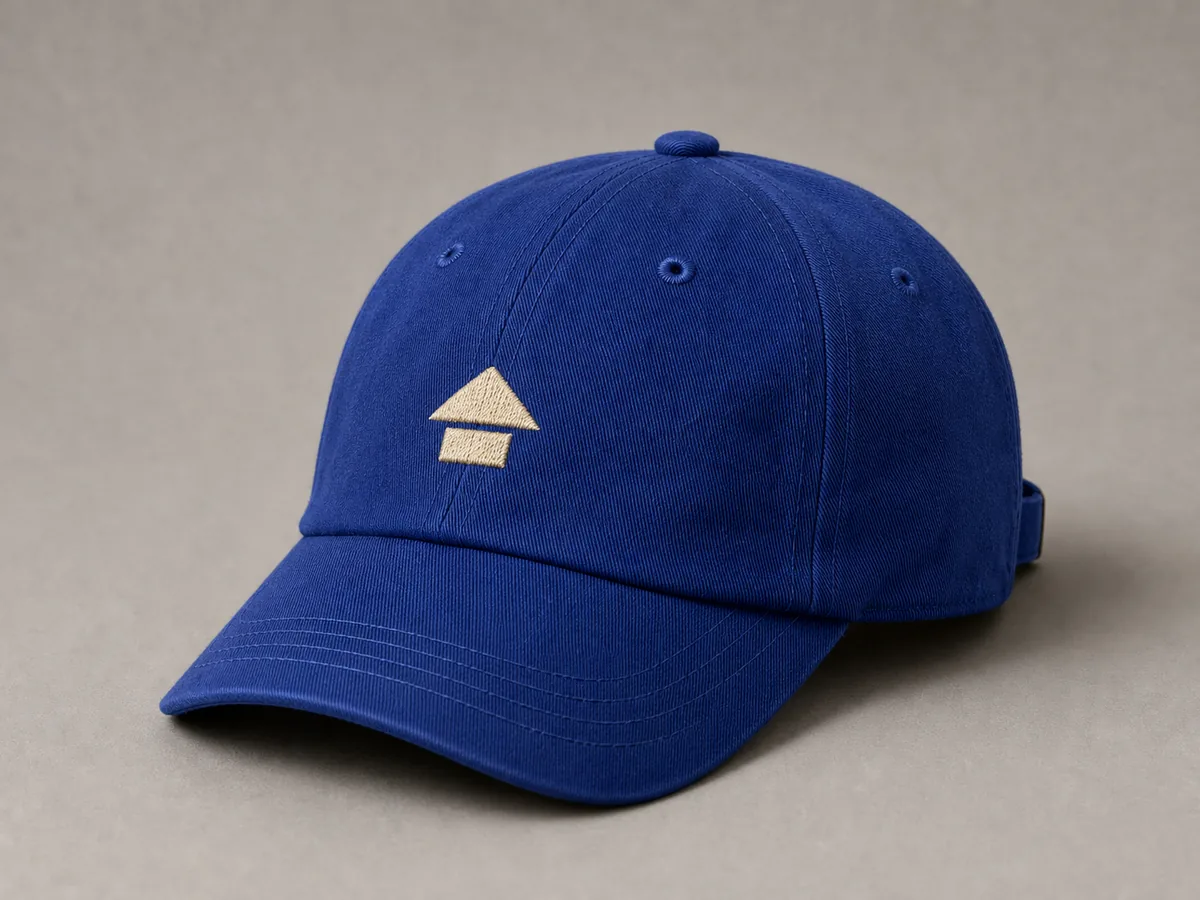
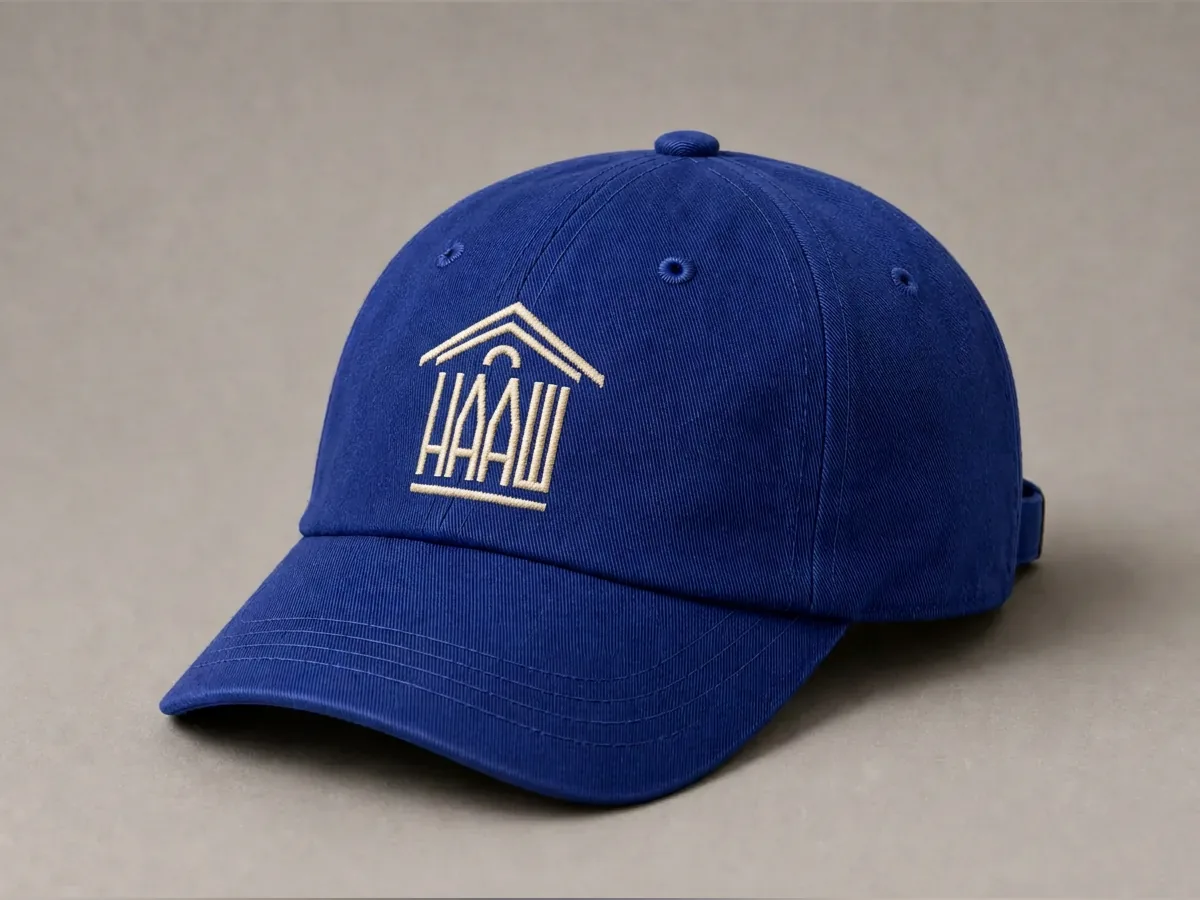
v0.89.6 — настоящий знак НААШ на школьных вещах
Канон знака вырезан из листа замков в docs/naash (цветной и одноцветный, с альфой) и подан генератору вторым изображением: значок, кепка и худи пересняты с крышей, оконцем, четырьмя буквами и линейкой вместо треугольника над прямоугольником. Векторный SchoolMark перерисован по измеренному канону. Шарф оставлен без знака: по описанию он несёт цвета знака, а не знак.

diff --git a/src/ui/MascotLook.tsx b/src/ui/MascotLook.tsx
@@ -27,11 +27,25 @@ const SIGN_GREEN = '#2E8B45';
 const SIGN_BLUE = '#0F4CA0';
 
 /**
- * Знак школы в упрощении для мелких вещей: крыша, четыре стебля букв НААШ и
- * полка под ними. Буквы здесь не буквы, а вертикали: на кепке шириной 15 px
- * надпись «НААШ» превращается в грязь, а силуэт знака узнаётся сразу.
- * `colored` — знак в цветах школы (для кремовой эмали), иначе одним цветом.
+ * Знак школы — по канону, а не «по мотивам».
+ *
+ * Канон лежит в репозитории: `docs/merch/img/mark-lockups.webp` (чистый знак),
+ * оттуда же `docs/naash/mark-color.png` и `mark-mono.png`. Прочитать его можно
+ * так: крыша двойным скатом с оконцем-полукругом, четыре буквы НААШ (обе «А» —
+ * домики), под ними линейка. Раньше здесь стояло «упрощение до крыши, стеблей
+ * и полки» — на карточке 96 px это читалось, но переставало быть знаком школы
+ * (0.89.6: пользователь справедливо сказал «это не лого, а нечто похожее»).
+ *
+ * Геометрия снята с канона в единицах, где высота букв = 100:
+ *   ширина знака 194.2, высота 193.3, обводка букв 5.4, крыши 7,
+ *   буква 28.5 шириной с шагом 34.9, перекладина на 76 от верха,
+ *   линейка — на 16.1 ниже строки.
+ *
+ * `colored` — знак в цветах школы (кремовая эмаль значка, печать по светлому),
+ * иначе всё одним цветом: вышивка и печать по синему — кремовым.
  */
+const MARK_W = 194.2;
+
 function SchoolMark({
   cx,
   top,
@@ -45,22 +59,26 @@ function SchoolMark({
   ink: string;
   colored?: boolean;
 }) {
-  const k = w / 16;
-  const stems = colored ? [SIGN_RED, SIGN_AMBER, SIGN_GREEN, SIGN_BLUE] : [ink, ink, ink, ink];
+  const k = w / MARK_W;
+  const base = colored ? SIGN_BLUE : ink;
   return (
-    <g transform={`translate(${cx - w / 2} ${top}) scale(${k.toFixed(4)})`}>
-      <path
-        d="M-0.8 3.4 L8 -0.7 L16.8 3.4"
-        fill="none"
-        stroke={ink}
-        strokeWidth="1.5"
-        strokeLinecap="round"
-        strokeLinejoin="round"
-      />
-      {stems.map((color, i) => (
-        <rect key={i} x={1.1 + i * 2.95} y="4.4" width="1.5" height="3.8" rx="0.3" fill={color} />
-      ))}
-      <rect x="0.4" y="8.7" width="15.2" height="1.25" rx="0.3" fill={ink} />
+    <g transform={`translate(${(cx - w / 2).toFixed(3)} ${top}) scale(${k.toFixed(5)})`}>
+      <g fill="none" strokeLinecap="round" strokeLinejoin="miter">
+        {/* крыша: внешний и внутренний скаты и оконце */}
+        <path d="M-30.2 -12.4 L66.9 -74.5 L164 -12.4" stroke={base} strokeWidth="7" />
+        <path d="M-9.4 -12.4 L66.9 -61.2 L143.2 -12.4" stroke={base} strokeWidth="7" />
+        <path d="M52 -14 A14.95 14.95 0 0 1 81.9 -14" stroke={base} strokeWidth="5.7" />
+        {/* Н */}
+        <path d="M2.7 0 V100 M25.8 0 V100 M2.7 76 H25.8" stroke={colored ? SIGN_RED : ink} strokeWidth="5.4" />
+        {/* А — домик */}
+        <path d="M35.1 100 L49.35 0 L63.6 100 M35.1 76 H63.6" stroke={colored ? SIGN_AMBER : ink} strokeWidth="5.4" />
+        {/* А — второй домик */}
+        <path d="M70.8 100 L85.05 0 L99.3 100 M70.8 76 H99.3" stroke={colored ? SIGN_GREEN : ink} strokeWidth="5.4" />
+        {/* Ш */}
+        <path d="M108.1 0 V100 M119.65 0 V100 M131.2 0 V100 M108.1 97.3 H131.2" stroke={colored ? SIGN_BLUE : ink} strokeWidth="5.4" />
+        {/* линейка под буквами */}
+        <path d="M0 116.1 H133.9" stroke={base} strokeWidth="5.4" />
+      </g>
     </g>
   );
 }
@@ -141,7 +159,7 @@ export function MascotAccessory({ id, colors }: { id: string; colors?: [string, 
           <path d="M19 26 A31 31 0 0 1 81 26 Q50 8 19 26 Z" fill={dome} />
           <path d="M17 25 Q50 32.5 83 25 L83 29.5 Q50 37 17 29.5 Z" fill={band} />
           <circle cx="50" cy="10.6" r="2.4" fill={band} />
-          <SchoolMark cx={50} top={12} w={15} ink={ink} />
+          <SchoolMark cx={50} top={12} w={14} ink={ink} />
         </g>
       );
     }

diff --git a/scripts/make-naash-mark.py b/scripts/make-naash-mark.py
@@ -1,0 +1,70 @@
+#!/usr/bin/env python3
+"""Знак НААШ: вырезаем канон из листа замков в PNG с прозрачным фоном.
+
+Почему так, а не «нарисовать заново»: знак уже перерисован вектором по
+присланному логотипу и лежит листом в `docs/merch/img/mark-lockups.webp`.
+Любая ручная перерисовка — это снова «похоже, но не то» (так и вышло в 0.89.4
+с фотографиями: на кепке, худи и значке стоял треугольник вместо крыши
+с оконцем, четырёх букв и линейки).
+
+Скрипт берёт чистый цветной знак с листа замков, делает альфу по фону и
+сохраняет две версии:
+
+  • `docs/naash/mark-color.png` — красная Н, янтарная А, зелёная А, синяя Ш,
+    синяя крыша с оконцем и линейка: для эмали и печати по светлому;
+  • `docs/naash/mark-mono.png` — тот же контур одним кремовым цветом
+    #F4EFE4: вышивка, печать по синему, тиснение (правило naash-shop.md:
+    «знак всегда кремовый на синем»).
+
+Запуск: python3 scripts/make-naash-mark.py
+"""
+from PIL import Image
+
+SRC = 'docs/merch/img/mark-lockups.webp'
+# Чистый знак в правой верхней части листа (буквы 1152…1351, крыша 1107…1396).
+BOX = (1098, 172, 1405, 476)
+CREAM = '#F4EFE4'
+BG = (0xEF, 0xE9, 0xDD)     # кремовая бумага листа
+TOL = 18                    # насколько пиксель может отличаться от бумаги
+UPSCALE = 2                 # 307 px → 614 px: запас для съёмки и печати
+
+
+def alpha_from_bg(im, bg=BG, tol=TOL):
+    """Альфа по расстоянию до цвета бумаги: знак сплошной, полутонов нет."""
+    px = im.load()
+    w, h = im.size
+    out = Image.new('RGBA', (w, h))
+    op = out.load()
+    for y in range(h):
+        for x in range(w):
+            r, g, b = px[x, y][:3]
+            d = max(abs(r - bg[0]), abs(g - bg[1]), abs(b - bg[2]))
+            a = 0 if d <= tol else min(255, round((d - tol) * 255 / 60))
+            op[x, y] = (r, g, b, a)
+    return out
+
+
+def trim(im, pad=6):
+    """Обрезаем по знаку и оставляем прозрачный запас: иначе острие крыши
+    липнет к краю кадра и при сборке снимком режется."""
+    box = im.getbbox()
+    x0, y0, x1, y1 = box
+    out = Image.new('RGBA', (x1 - x0 + pad * 2, y1 - y0 + pad * 2), (0, 0, 0, 0))
+    out.paste(im.crop(box), (pad, pad))
+    return out
+
+
+def main():
+    sheet = Image.open(SRC).convert('RGB').crop(BOX)
+    color = trim(alpha_from_bg(sheet))
+    mono = Image.new('RGBA', color.size, (0, 0, 0, 0))
+    mono.paste(CREAM, (0, 0, *color.size), color.split()[3])
+    for name, im in (('mark-color', color), ('mark-mono', mono)):
+        big = im.resize((im.width * UPSCALE, im.height * UPSCALE), Image.LANCZOS)
+        path = f'docs/naash/{name}.png'
+        big.save(path)
+        print(f'✓ {path} {big.width}×{big.height}')
+
+
+if __name__ == '__main__':
+    main()

diff --git a/docs/RELEASE-0.89.6.md b/docs/RELEASE-0.89.6.md
@@ -1,0 +1,55 @@
+# 0.89.6 — настоящий знак НААШ на школьных вещах
+
+## Зачем
+
+На снимках школьных вещей стоял не знак школы, а «нечто условно похожее»:
+треугольник над прямоугольником. Генератор сочинял его по описанию, потому что
+канона ему не давали. Пользователь сказал прямо — на школьных вещах логотип
+должен быть максимально точным.
+
+## Что сделано
+
+- **Канон знака теперь лежит в репозитории.** `scripts/make-naash-mark.py`
+  вырезает знак с листа замков `docs/merch/img/mark-lockups.webp` (там он
+  перерисован вектором по присланному логотипу) и сохраняет две версии
+  с прозрачным фоном:
+  - `docs/naash/mark-color.png` — красная Н, янтарная А, зелёная А, синяя Ш,
+    синяя крыша с оконцем и линейка: для эмали и печати по светлому;
+  - `docs/naash/mark-mono.png` — тот же контур одним кремовым #F4EFE4:
+    вышивка и печать по синему (правило «знак всегда кремовый на синем»).
+- **Три школьных снимка пересняты с каноном** (канон подан генератору вторым
+  изображением, остальное в кадре не менялось):
+  - `school-pin` — на кремовой эмали теперь знак целиком: крыша с оконцем,
+    красная Н, янтарная А, зелёная А, синяя Ш и синяя линейка; стенки знака
+    читаются как золотистый металл между эмалями;
+  - `school-cap` — кремовая вышивка по канону на передней панели: крыша
+    с оконцем, четыре буквы, линейка; стежки идут по изгибу панели;
+  - `school-hoodie` — кремовая вышивка на груди, тот же контур, те же
+    пропорции.
+- **Знак в приложении перерисован по канону** (`SchoolMark` в
+  `src/ui/MascotLook.tsx`): крыша двойным скатом с оконцем, Н, две «А»-домика,
+  Ш и линейка. Раньше там стояло «упрощение до крыши и стеблей», которое на
+  15–17 px читалось, но переставало быть знаком школы. Геометрия снята с
+  канона в единицах, где высота букв = 100: ширина 194.2, высота 193.3,
+  обводка букв 5.4, крыши 7, буква 28.5 с шагом 34.9, перекладина на 76 от
+  верха, линейка на 16.1 ниже строки. Правило «без букв и цифр» осталось для
+  набора иконок, но не для фирменного знака.
+- **Шарф оставлен без знака — осознанно.** По описанию вещи он несёт *цвета*
+  знака (полоса-триколор с бахромой), а не сам знак. На вязаном полотне
+  генератор кладёт знак перекошенным (две попытки — брак), а вклеенный поверх
+  выглядел бы подделкой. Канонный мерч-шарф с маленьким знаком — другой товар
+  (`public/naash/scarf-stripes.webp`).
+
+## Как проверено
+
+- Каждый переснятый кадр смотрел на увеличении 2–3×: крыша с оконцем, четыре
+  буквы и линейка читаются, знак не перекошен, пропорции совпадают с каноном.
+  Брак в партии: 2 кадра шарфа (перекошенный знак) — в дело не пошли.
+- `npm run test:galleries` — 13/13, `npm run test:smoke` — зелёный целиком.
+- `npm run typecheck`, `npm run build`, `npm run release:check`.
+
+## Дальше
+
+Знак на снимках теперь канонический — правило записано в
+`docs/proposals/photo-series-plan.md`, чтобы следующая партия не сочиняла его
+заново. По плану остаются вторые ракурсы для 24 товаров с одиночным кадром.

diff --git a/docs/proposals/photo-series-plan.md b/docs/proposals/photo-series-plan.md
@@ -1,6 +1,6 @@
 # Фотосерии галерей: маршрут на 38 нарядов и 24 товара
 
-Состояние на 31.10.2026, ветка `arena/5381728f-slovo2`, версия 0.89.5.
+Состояние на 31.10.2026, ветка `arena/5381728f-slovo2`, версия 0.89.6.
 Генератор изображений работает: **38 из 38 пар нарядов готовы — серия нарядов закрыта** — `crown`,
 `glasses-heart`, `choker`, `cap`, `bow`, `scarf`, `glasses`, `medal`, `grad`,
 `clips-stars`, `wreath`, `hat-ribbon`, `glasses-round`, `beads`, `bag`,
@@ -206,6 +206,27 @@
 2. Проверить на телефоне, что пара читается как одна съёмка: фон, резкость,
    ракурс, масштаб.
 3. Подключать серию целиком, чтобы фото не соседствовали с векторным артом.
+
+## Знак школы на снимках (0.89.6)
+
+Первая партия школьных фото (0.89.4) нарисовала на значке, кепке и худи
+**не тот знак**: треугольник над прямоугольником вместо крыши с оконцем,
+четырёх букв НААШ и линейки. Пользователь: «это фактически не лого школы, а
+нечто условно похожее». Причина — генератору не давали канон, и он сочинял
+знак по описанию.
+
+Правило теперь: **съёмка вещи со знаком идёт только с каноном**. Вторым
+изображением генератору отдают `docs/naash/mark-mono.png` (вышивка и печать по
+синему) или `docs/naash/mark-color.png` (эмаль), и в задании перечислено, из
+чего знак состоит. Кадр принимается, только если на увеличении читаются крыша
+с оконцем, четыре буквы и линейка; перекошенный или «сплющенный» знак — брак.
+
+Где знака нет и почему:
+
+- **шарф** — по описанию вещи он несёт **цвета** знака (полоса-триколор с
+  бахромой), а не сам знак; на вязаном полотне генератор кладёт знак криво,
+  а вклеенный поверх выглядел бы подделкой. Канонный мерч-шарф с маленьким
+  знаком — другой товар (см. `public/naash/scarf-stripes.webp`).
 
 ## Смена цвета и снимки (решение 0.89.5)
 

diff --git a/docs/proposals/naash-shop.md b/docs/proposals/naash-shop.md
@@ -104,9 +104,25 @@
 это не «ещё одна вещь», а символ школы.
 
 **Рисуем кодом** (`src/ui/MascotLook.tsx`, сетка 100×120): ноль веса, офлайн,
-перекраска без картинок. Знак на аксессуарах — **упрощённый до крыши и окон,
-без букв**: правило набора иконок (`src/ui/Icon.tsx`) прямо запрещает буквы и
-цифры внутри значка, а на кепке шириной 60 px буквы НААШ превращаются в грязь.
+перекраска без картинок. Знак на аксессуарах — **по канону, с буквами**
+(0.89.6): крыша двойным скатом с оконцем, четыре буквы НААШ (обе «А» —
+домики) и линейка под ними. Раньше здесь стояло «упрощение до крыши и окон,
+без букв» — на 15–17 px это читалось, но переставало быть знаком школы;
+пользователь сказал прямо: «это не лого, а нечто условно похожее». Правило
+«без букв и цифр» остаётся для набора иконок (`src/ui/Icon.tsx`), но не для
+фирменного знака: буквы здесь — часть логотипа.
+
+**Канон знака лежит в репозитории.** Чистый знак — на листе замков
+`docs/merch/img/mark-lockups.webp`; `scripts/make-naash-mark.py` вырезает из
+него две версии с прозрачным фоном:
+
+| Файл | Цвет | Где |
+| --- | --- | --- |
+| `docs/naash/mark-color.png` | красная Н, янтарная А, зелёная А, синяя Ш, синяя крыша и линейка | эмаль значка, печать по светлому |
+| `docs/naash/mark-mono.png` | всё кремовым #F4EFE4 | вышивка и печать по синему |
+
+Эти же файлы — референс для съёмки: генератору снимков отдают канон вторым
+изображением, иначе он рисует «домик вместо знака» (так и вышло в 0.89.4).
 
 ---
 
